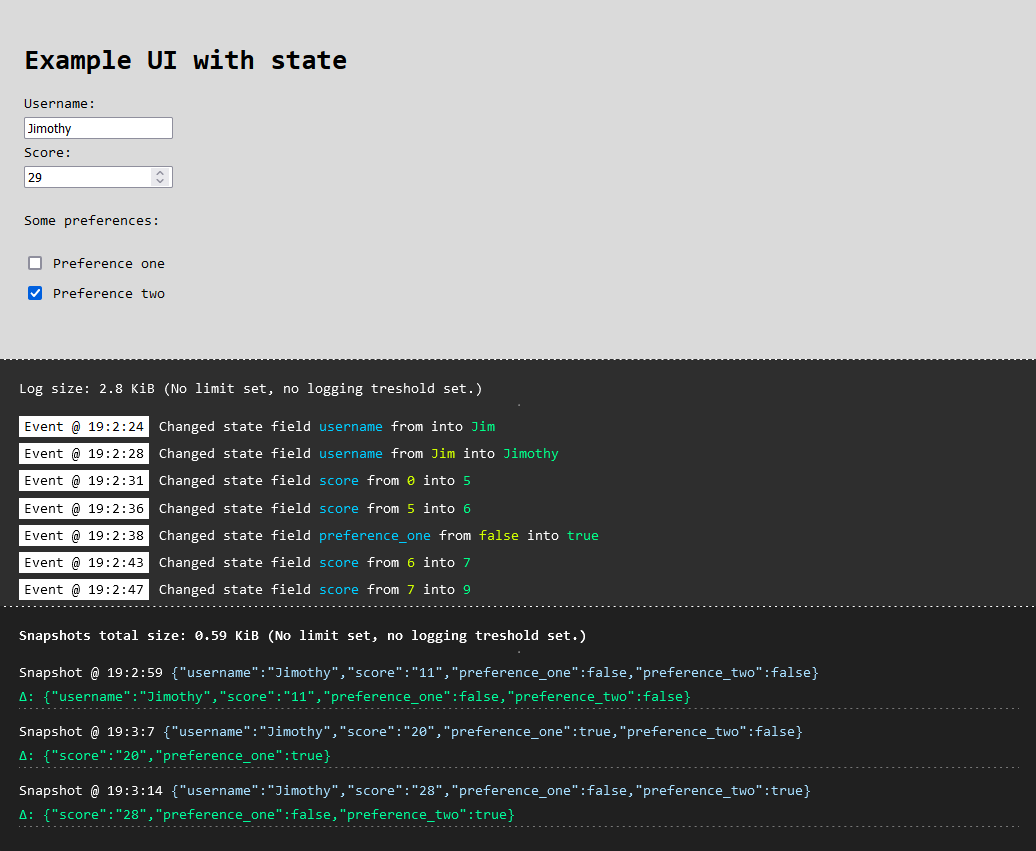
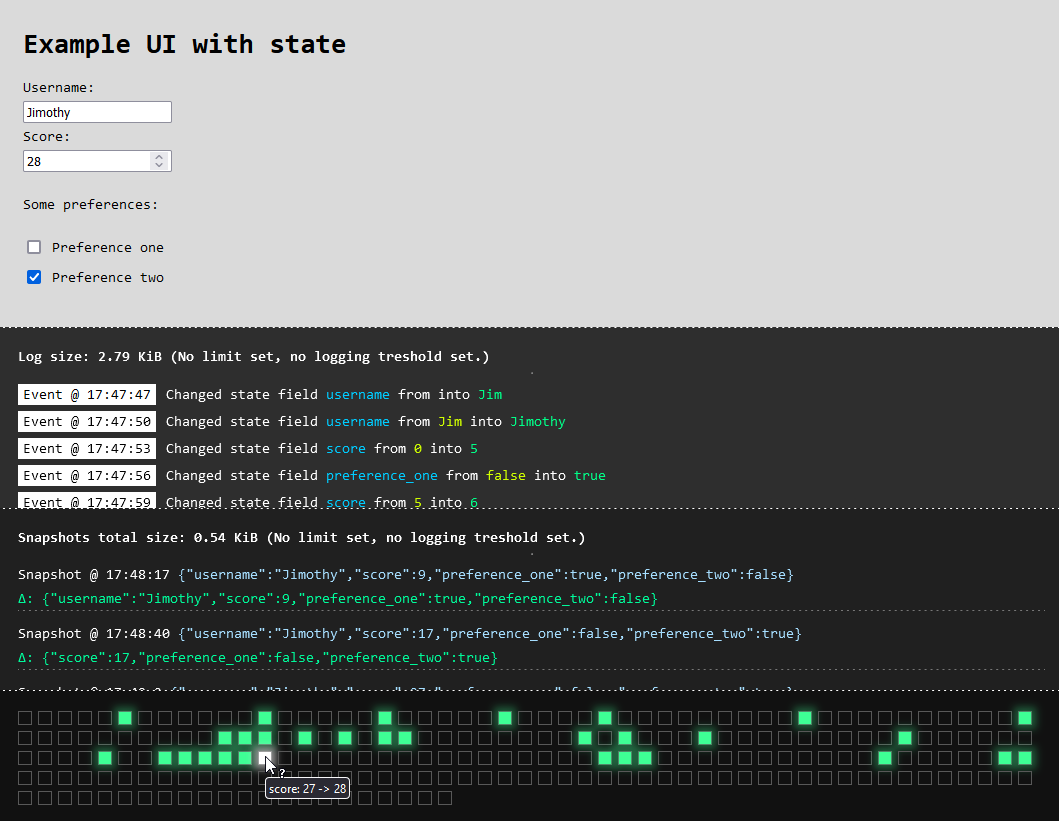
added a live timeline with  state change events

Changed region(s): [[0.0, 0.3959, 1.0, 0.9744], [0.0, 0.0305, 0.3398, 0.3654], [0.7104, 0.7004, 0.7413, 0.7308]]

diff --git a/src/components/timeline/Timeline.tsx b/src/components/timeline/Timeline.tsx
@@ -1,0 +1,54 @@
+import React, { useEffect, useState } from "react";
+import "./timeline.scss";
+import { useLogStore } from "../../hooks/useStore";
+import * as types from "../../types/store.types";
+
+type TickEvent = {
+  tick: number;
+  event: types.Log;
+};
+
+export const Timeline = () => {
+  const logState = useLogStore<types.LogStore>((state) => state);
+
+  // Use localstate to limit app-wide store operations
+  const [ticks, setTicks] = useState<number>(1);
+  const [tickEvents, setTickEvents] = useState<TickEvent[]>([]);
+
+  useEffect(() => {
+    const interval = setInterval(() => tick(), 500);
+    return () => {
+      clearInterval(interval);
+    };
+  }, [ticks]);
+
+  const tick = () => {
+    setTicks((prev) => ++prev);
+
+    // Check logs for state change event during tick
+    if (logState.logs.length) {
+      const logs = logState.logs;
+      const lastLoggedEvent = logs[logs.length - 1];
+
+      // If there are fewer eventful ticks than logged events, make tick eventful
+      if (tickEvents.length + 1 <= logs.length) {
+        const newTickEvent = { tick: ticks, event: lastLoggedEvent };
+        setTickEvents((prev) => [...prev, newTickEvent]);
+      }
+    }
+  };
+
+  // For every tick, add a block. If state change occured at that tick, light up block.
+  return (
+    <div className="timeline">
+      {[...Array(ticks)].map((block, index) => (
+        <div key={index} className="timelineBlock">
+          {tickEvents.length > 0 &&
+            tickEvents.filter((t) => t.tick === index).length > 0 && (
+              <div className="lightUpEvent"></div>
+            )}
+        </div>
+      ))}
+    </div>
+  );
+};

diff --git a/src/components/timeline/timeline.scss b/src/components/timeline/timeline.scss
@@ -1,0 +1,34 @@
+$blockSize: 12px;
+
+.timeline {
+  display: flex;
+  flex-wrap: wrap;
+  align-content: flex-start;
+  flex: 2;
+  background-color: #111111;
+  border-top: 1px dashed white;
+  color: white;
+  padding: 17px;
+  overflow-y: scroll;
+
+  .timelineBlock {
+    display: flex;
+    min-width: $blockSize;
+    height: $blockSize;
+    border: 1px solid rgb(88, 88, 88);
+    margin: 3px;
+
+    .lightUpEvent {
+      display: flex;
+      min-width: $blockSize;
+      height: $blockSize;
+      background-color: #3eff95;
+      box-shadow: 0px 0px 7px 5px #3eff954f;
+
+      &:hover {
+        background-color: white;
+        box-shadow: 0px 0px 7px 5px #d6d6d6a8;
+      }
+    }
+  }
+}

diff --git a/src/App.tsx b/src/App.tsx
@@ -3,6 +3,7 @@ import "./app.scss";
 import ExampleUI from "./components/exampleui/ExampleUI";
 import EventLogView from "./components/eventlogview/EventLogView";
 import SnapshotsView from "./components/snapshotsview/SnapshotsView";
+import { Timeline } from "./components/timeline/Timeline";
 
 function App() {
   // An example UI, with a zustand hooks state living on App level.
@@ -14,6 +15,7 @@ function App() {
       <ExampleUI />
       <EventLogView />
       <SnapshotsView />
+      <Timeline />
     </div>
   );
 }

diff --git a/src/components/snapshotsview/SnapshotsView.tsx b/src/components/snapshotsview/SnapshotsView.tsx
@@ -33,7 +33,11 @@ const SnapshotsView = () => {
       </div>
     );
   }
-  return <div className="snapshotView">No state snapshots yet</div>;
+  return (
+    <div className="snapshotView">
+      Snapshots will be generated once in every 10 events.
+    </div>
+  );
 };
 
 export default SnapshotsView;

diff --git a/src/components/eventlogview/EventLogView.tsx b/src/components/eventlogview/EventLogView.tsx
@@ -30,7 +30,7 @@ const EventLogView = () => {
       </div>
     );
   }
-  return <div className="eventLogView">No state changes logged yet</div>;
+  return <div className="eventLogView">State changes will be logged here.</div>;
 };
 
 export default EventLogView;
